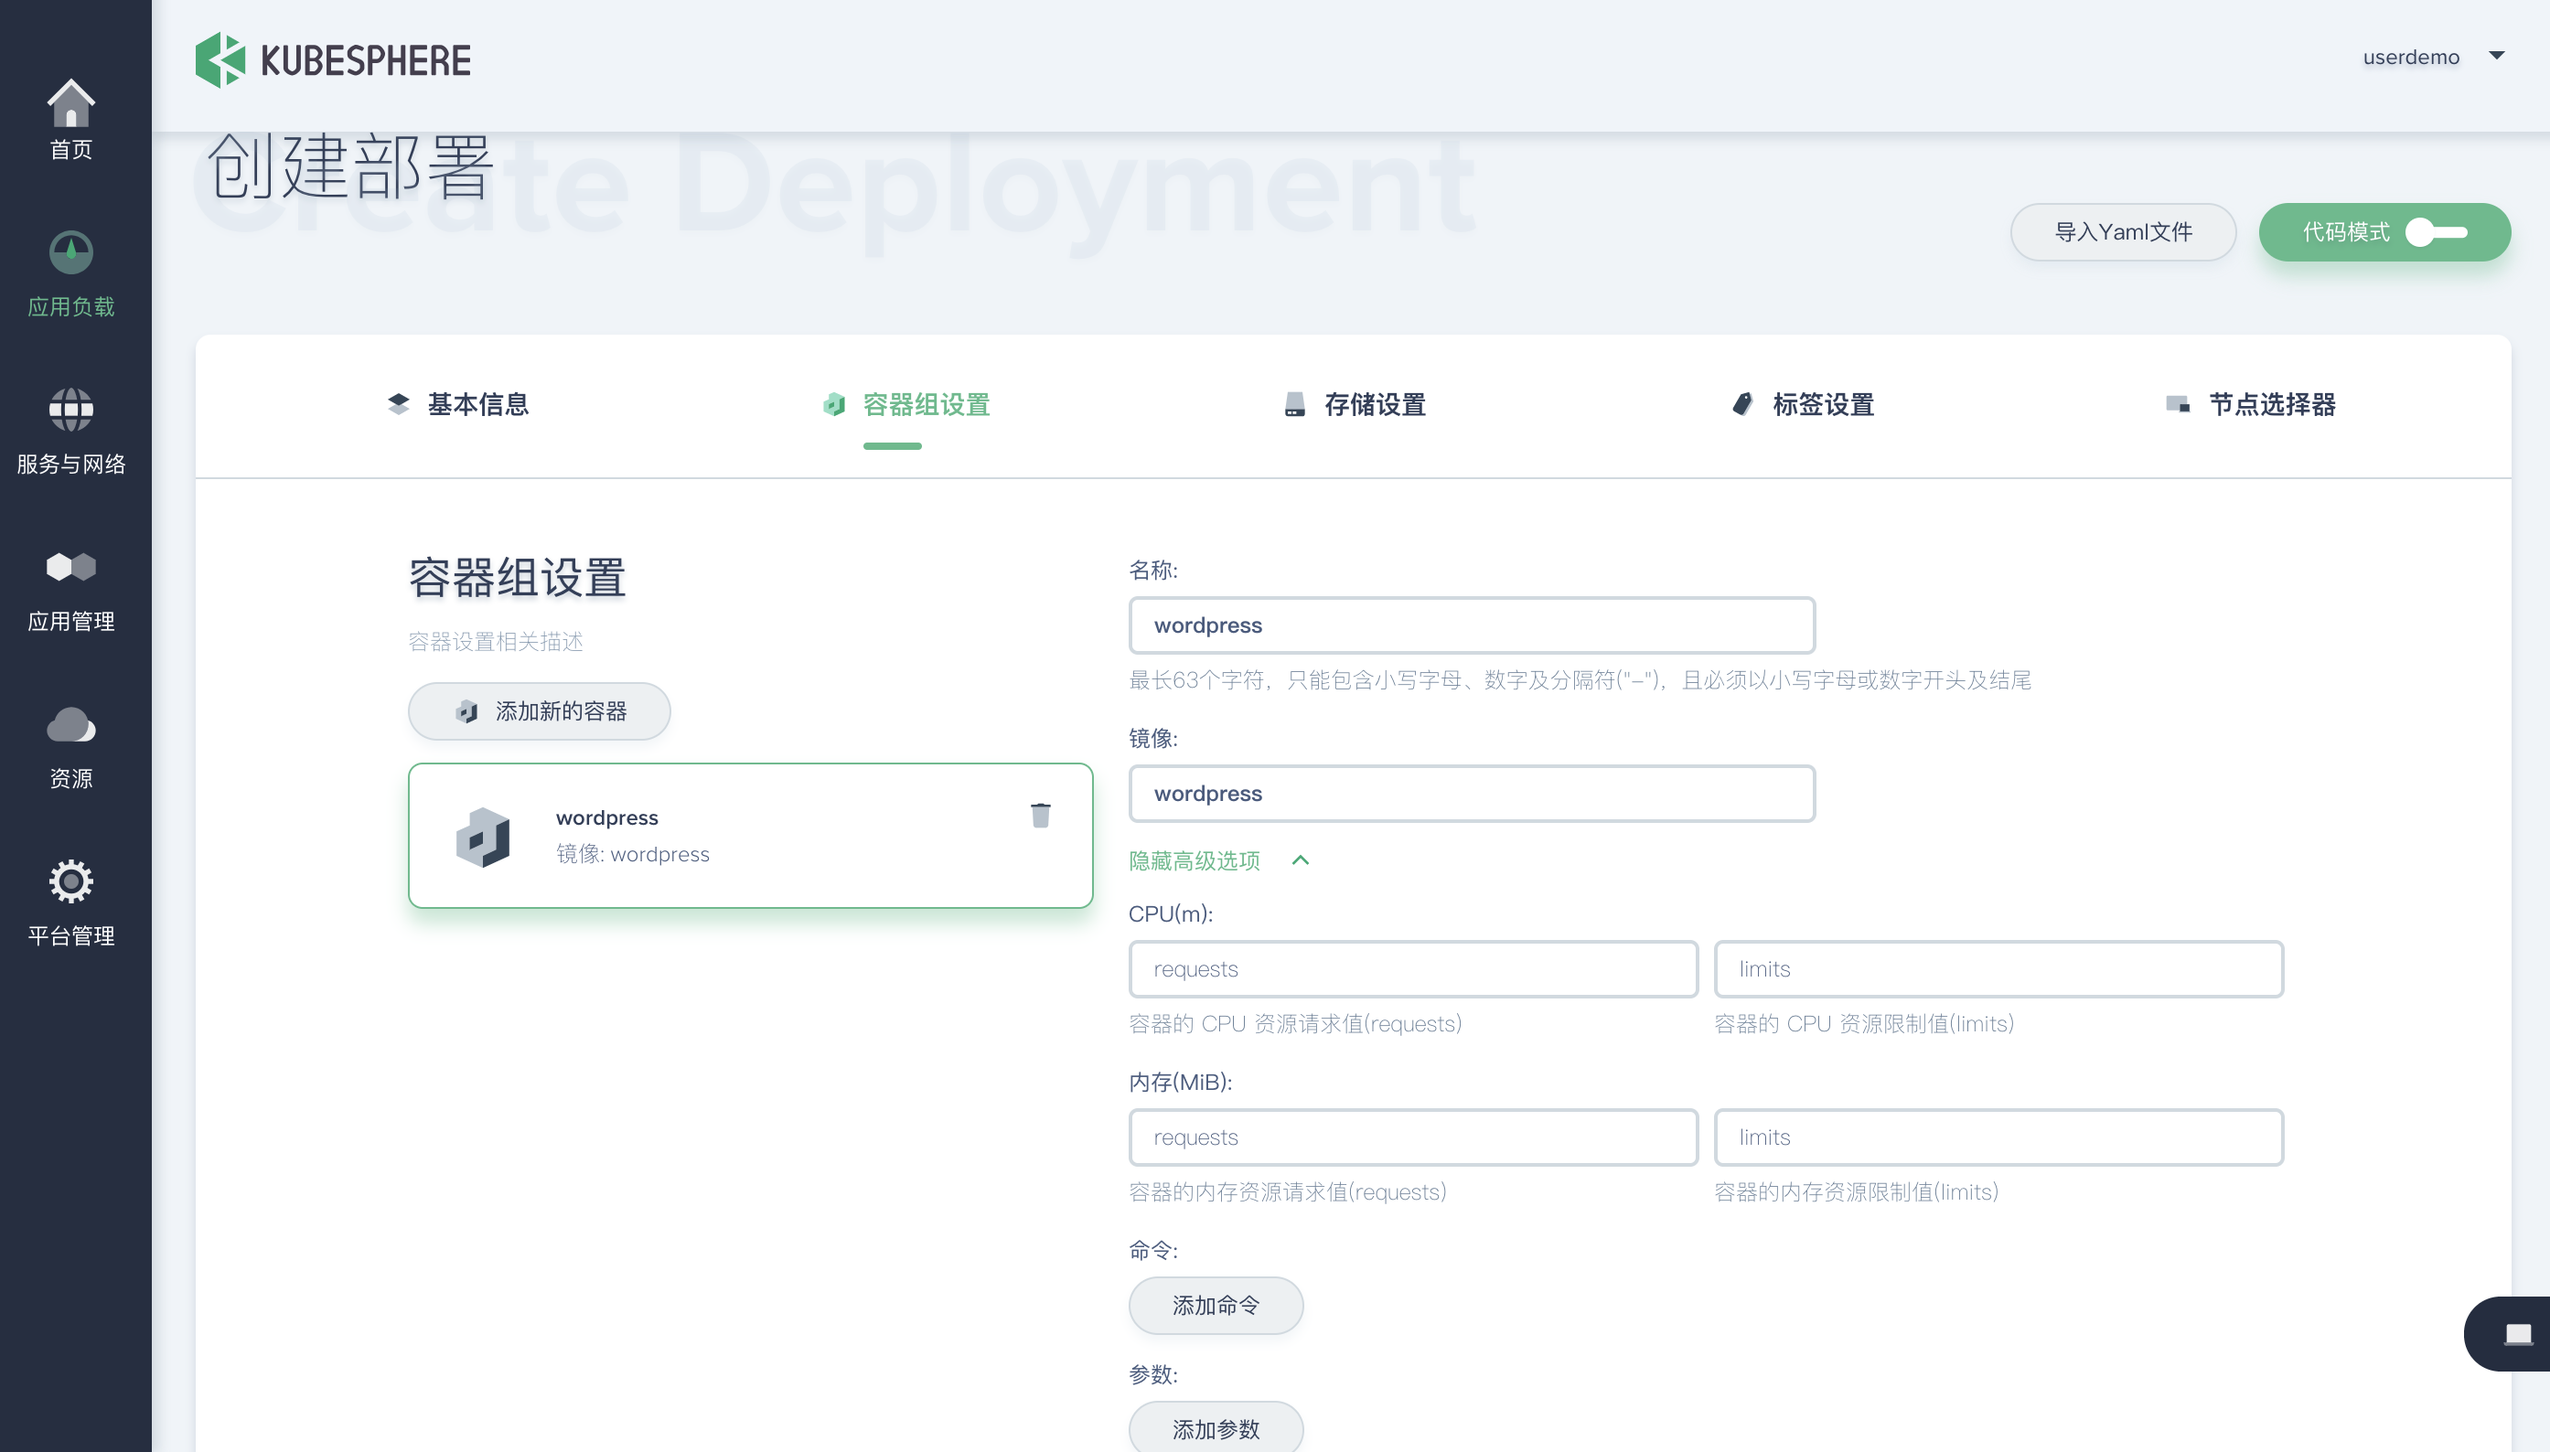
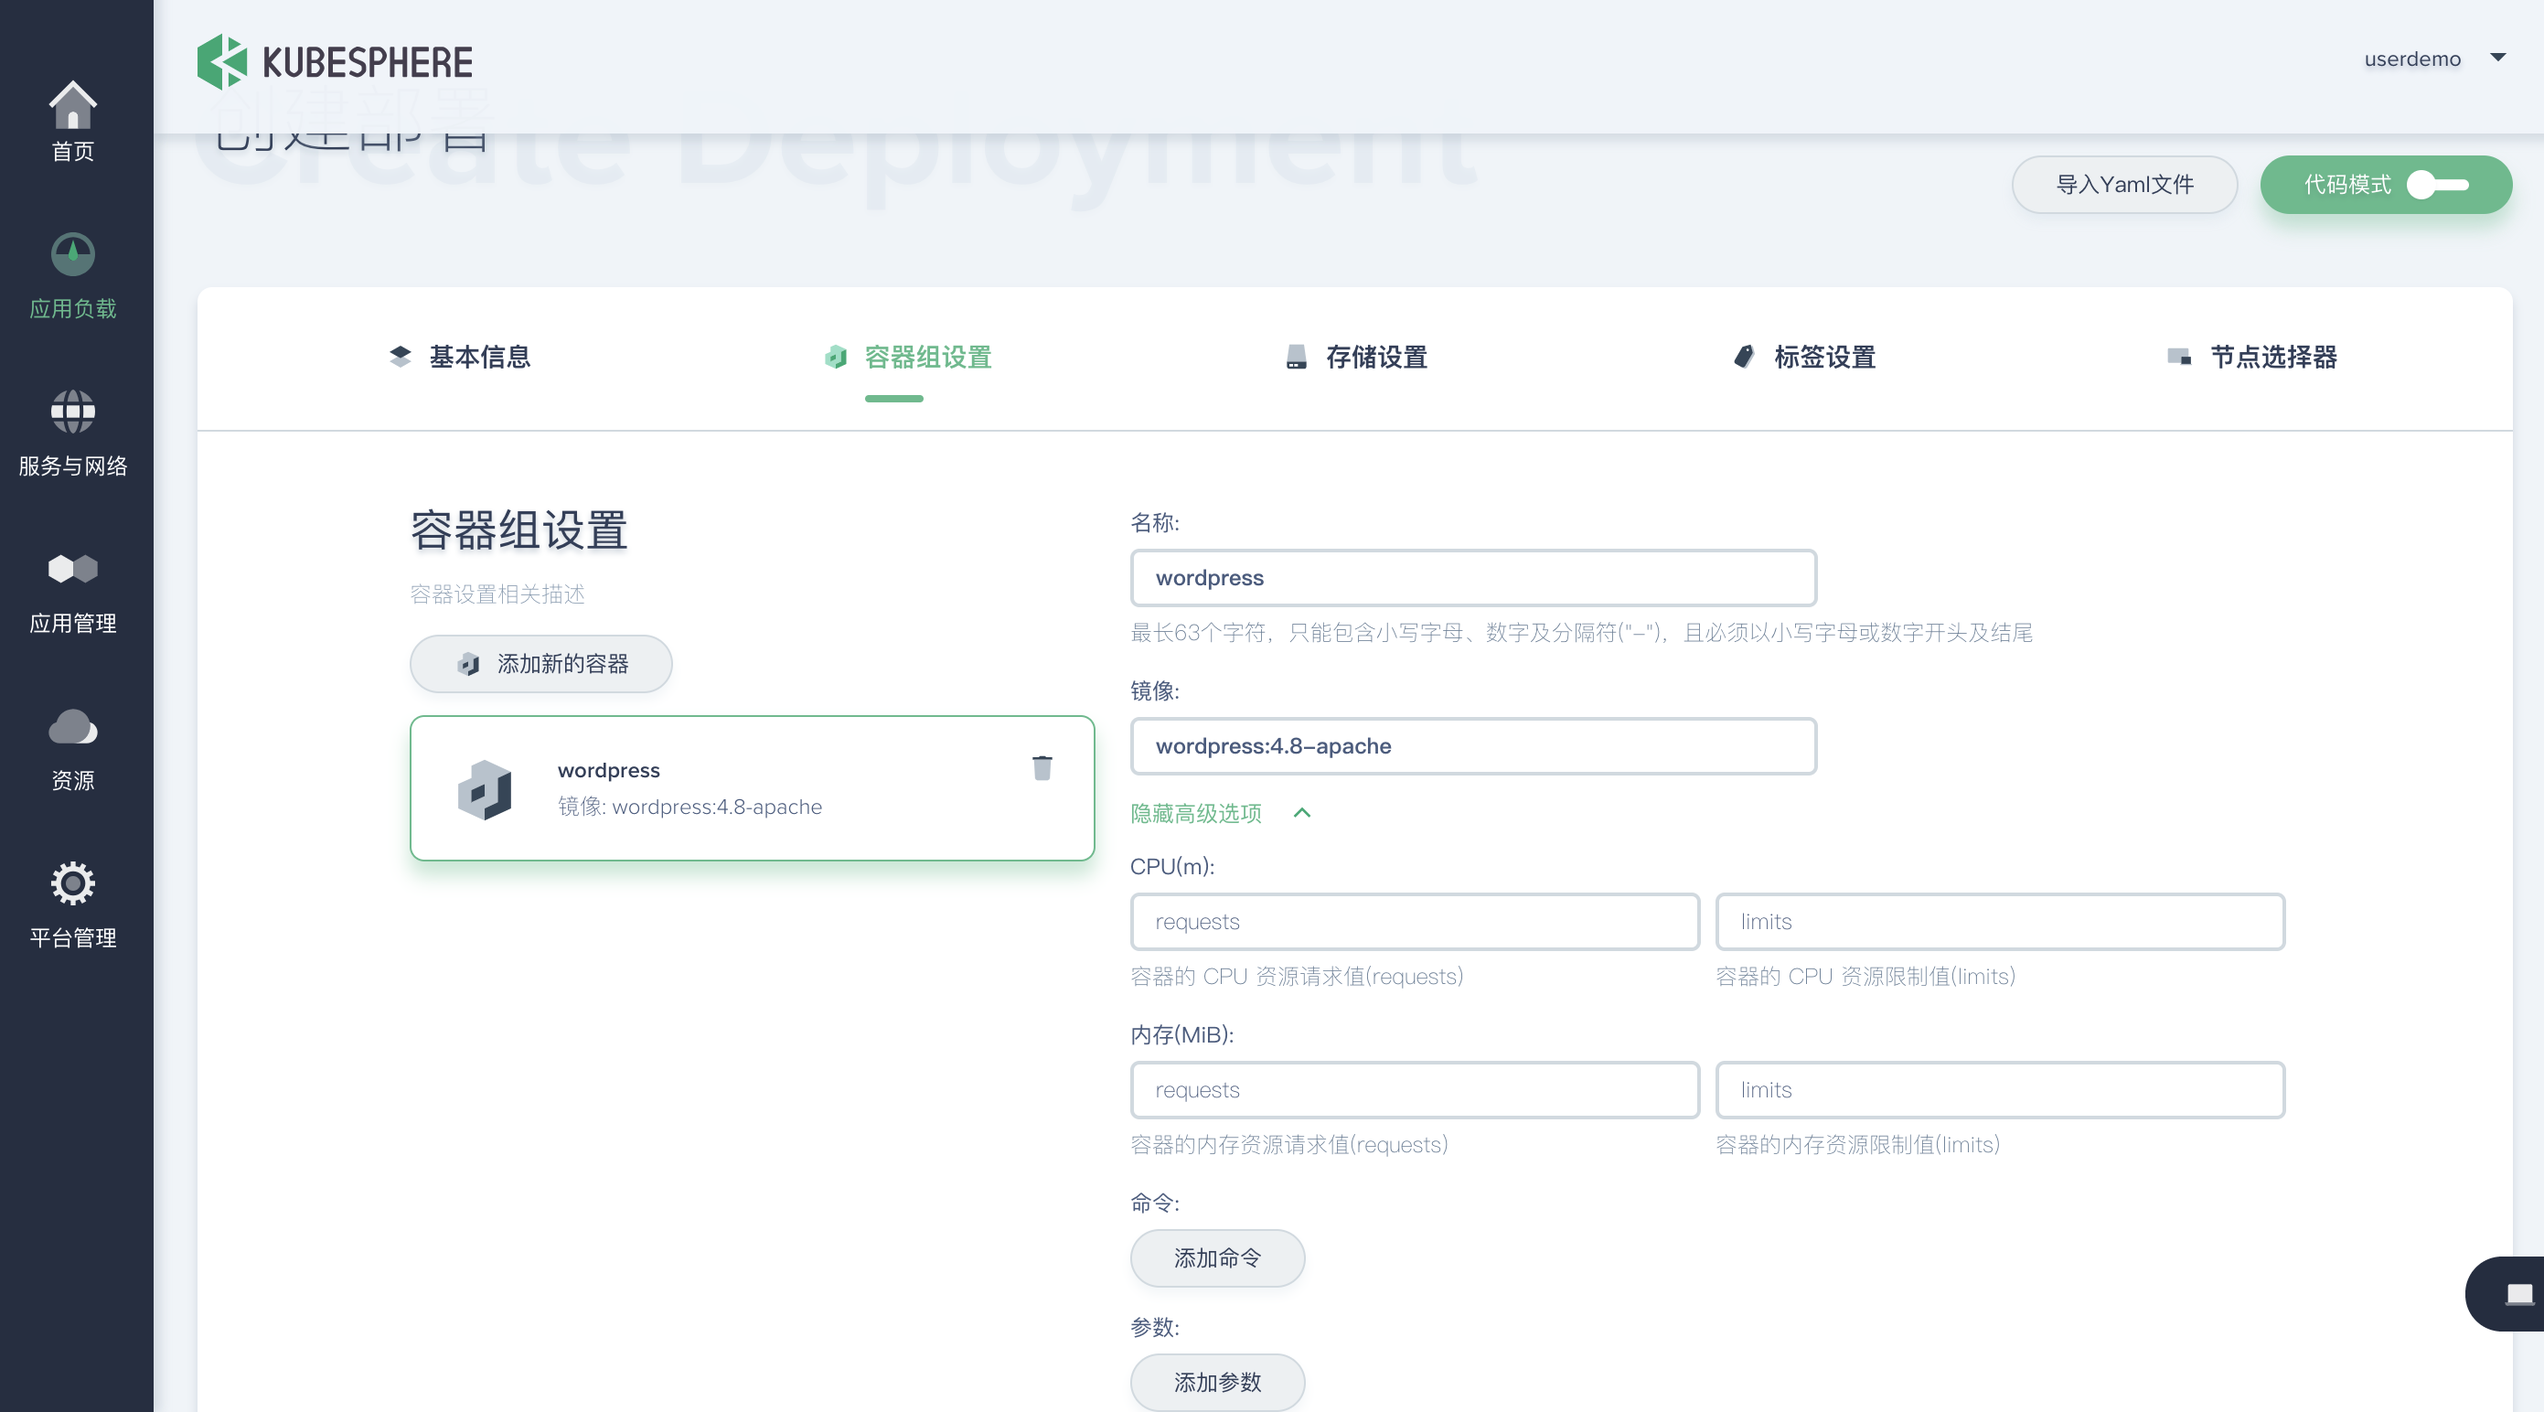
update docs

diff --git a/content/express/zh-CN/user-case.md b/content/express/zh-CN/user-case.md
@@ -8,7 +8,7 @@ WordPress 是使用 PHP 语言开发的博客平台，用户可以在支持 PHP 
 
 ## 登录 KubeSphere
 
-1、在开始实践之前，请以普通用户（Regular）的身份登录 KubeSphere，操作员的身份需要通过管理员创建，关于如何创建普通用户（Regular）身份以及成员管理请参考  [用户管理说明](https://docs.kubesphere.io/express/zh-CN/manage-users)，关于用户角色管理的详细介绍，请参考 [角色管理说明](https://docs.kubesphere.io/express/zh-CN/manage-roles)。
+1、在开始实践之前，请以普通用户（Regular）的身份登录 KubeSphere，操作员的身份需要通过管理员创建，关于如何创建普通用户（Regular）身份以及成员管理请参考  [用户管理说明](/express/zh-CN/manage-users/)，关于用户角色管理的详细介绍，请参考 [角色管理说明](/express/zh-CN/manage-roles/)。
 
 
 ## 创建项目
@@ -20,7 +20,7 @@ WordPress 是使用 PHP 语言开发的博客平台，用户可以在支持 PHP 
 
 ![](/uc_createproj.png)
 
-> 说明: 关于项目管理的详细介绍，请参考  [项目管理说明](https://docs.kubesphere.io/express/zh-CN/manage-projects) 。
+> 说明: 关于项目管理的详细介绍，请参考  [项目管理说明](/express/zh-CN/manage-projects/) 。
 
 ## 创建存储卷
 
@@ -33,7 +33,7 @@ WordPress 是使用 PHP 语言开发的博客平台，用户可以在支持 PHP 
 
 ![](/uc_createpv1.png)
 
-- 第二步，填写存储设置，完成后点下一步（关于创建存储类型的详细介绍, 请参考 [存储类型管理说明](https://docs.kubesphere.io/express/zh-CN/manage-storageclasses) 通过管理员为其创建 ）：
+- 第二步，填写存储设置，完成后点下一步（关于创建存储类型的详细介绍, 请参考 [存储类型管理说明](/express/zh-CN/manage-storageclasses/) 通过管理员为其创建 ）：
 
 ![](/uc_createpv2.png)
 
@@ -53,7 +53,7 @@ WordPress 是使用 PHP 语言开发的博客平台，用户可以在支持 PHP 
 
 ![](/uc_createdeploy.png)
 
-> 说明：关于如何管理部署资源，请参考 [部署管理说明](https://docs.kubesphere.io/express/zh-CN/manage-deployments)
+> 说明：关于如何管理部署资源，请参考 [部署管理说明](/express/zh-CN/manage-deployments/)
 
 
 7、请参考以下步骤创建部署 wordpress-mysql：
@@ -66,9 +66,9 @@ WordPress 是使用 PHP 语言开发的博客平台，用户可以在支持 PHP 
 
 ![](/uc_createdeploy10.png)
 
-> 注: 如果 docker 镜像不是来自默认的 dockerhub，例如 docker 镜像来自 Harbor 镜像仓库, 请参考 [镜像仓库管理说明](https://docs.kubesphere.io/express/zh-CN/manage-imageregistries)
+> 注: 如果 docker 镜像不是来自默认的 dockerhub，例如 docker 镜像来自 Harbor 镜像仓库, 请参考 [镜像仓库管理说明](/express/zh-CN/manage-imageregistries/)
 
-- 在容器组设置中配置 MySQL 的访问端口和 MySQL 的环境变量 (root 用户的密码) , **端口**用于指定容器需要暴露的端口，端口协议可以选择 TCP 和 UDP, 用户还可以指定端口与主机端口进行绑定。**环境变量**可以指定容器内部使用的环境变量。完成后点下一步：
+- 在容器组设置中配置 MySQL 的访问端口和 MySQL 的环境变量 `MYSQL_ROOT_PASSWORD` 和 root 用户的密码 , **端口**用于指定容器需要暴露的端口，端口协议可以选择 TCP 和 UDP, 用户还可以指定端口与主机端口进行绑定。**环境变量**可以指定容器内部使用的环境变量。完成后点下一步：
 
 ![](/uc_createdeploy11.png)
 
@@ -97,11 +97,11 @@ WordPress 是使用 PHP 语言开发的博客平台，用户可以在支持 PHP 
 
 ![](/uc_createdeploy1.png)
 
-- 第二步，填写容器组设置，名称可自定义，镜像填写 `wordpress` :
+- 第二步，填写容器组设置，名称可自定义，镜像填写 `wordpress:4.8-apache` :
 
 ![](/uc_createdeploy2.png)
 
-- 在容器组设置中配置 WordPress 的访问端口和关联 MySQL 的环境变量并保存，完成后点下一步：
+- 在容器组设置中配置 WordPress 的访问端口和关联 MySQL 的环境变量 (`WORDPRESS_DB_HOST` 和 `WORDPRESS_DB_PASSWORD`) 并保存，完成后点下一步：
 
 > 注意:  环境变量中, ``WORDPRESS_DB_HOST`` 的值对应的是 MySQL 服务的名称, 在后续步骤创建 MySQL 服务时, 服务名应该与此处的环境变量值相同, 否则无法连接 MySQL 数据库。
 
@@ -148,7 +148,7 @@ WordPress 是使用 PHP 语言开发的博客平台，用户可以在支持 PHP 
 
 ![](/uc_createsvc4.png)
 
-> 说明： 关于如何管理服务的详细介绍，请参考 [服务管理说明](https://docs.kubesphere.io/express/zh-CN/manage-services)
+> 说明： 关于如何管理服务的详细介绍，请参考 [服务管理说明](/express/zh-CN/manage-services)
 
 11、请参考以下步骤为 WordPress 创建服务：
 
@@ -164,7 +164,7 @@ WordPress 是使用 PHP 语言开发的博客平台，用户可以在支持 PHP 
 
 ![](/uc_createsvc7.png)
 
-- 第四步，设置外网访问时，共有 None、 NodePort、 LoadBalancer 三种访问方式，可根据情景来设置访问方式。本实践以 LoadBalancer 的方式暴露服务，并将公网 IP 地址的 ID 填入 Annotation 中，即可通过公网 IP 访问该服务, 完成后点击创建：
+- 第四步，设置外网访问时，共有 None、 NodePort、 LoadBalancer 三种访问方式，可根据情景来设置访问方式。本实践以 LoadBalancer 的方式暴露服务，并将公网 IP 地址的 `ID` 填入 Annotation 中，即可通过公网 IP 访问该服务, 完成后点击创建：
 
 ![](/uc_createsvc8.png)
 
@@ -180,14 +180,14 @@ WordPress 是使用 PHP 语言开发的博客平台，用户可以在支持 PHP 
 
 12、通过创建应用路由的方式也可以将 WordPress 暴露到公网可供访问，请参考以下步骤配置应用路由：
 
-> 说明： 关于如何管理应用路由，详细请参考 [应用路由管理说明](#https://docs.kubesphere.io/express/zh-CN/manage-routers)
+> 说明： 关于如何管理应用路由，详细请参考 [应用路由管理说明](/express/zh-CN/manage-routers/)
 
 - 第一步，配置外网访问入口，即应用路由的网关入口：
 
 ![](/uc_createingress.png)
 
 
-- 网关入口提供 NodePort 和 LoadBalancer 两种访问方式，可根据情景需要来设置访问方式，本实践以 LoadBalancer 为例配置网关入口，将公网 IP 地址的 ID 填入 Annotation，配置完成后点击应用：
+- 网关入口提供 NodePort 和 LoadBalancer 两种访问方式，可根据情景需要来设置访问方式，本实践以 LoadBalancer 为例配置网关入口，将公网 IP 地址的 `ID` 填入 Annotation，配置完成后点击应用：
 
 ![](/uc_createingress1.png)
 
@@ -210,9 +210,11 @@ WordPress 是使用 PHP 语言开发的博客平台，用户可以在支持 PHP 
 
 - 至此，WordPress 就以应用路由的方式通过网关入口暴露到外网以供访问，用户可以通过示例中配置的 `kubesphere.wp.com` 访问 WordPress 博客网站：
 
+> 注: 创建应用路由之后应该把公网 IP 和 `kubesphere.wp.com` 填入本地的 hosts 配置文件中，即可通过浏览器访问。
+
 ![](/uc_createingress6.png)
 
-> 注: 创建应用路由之后应该把公网 IP 和 `kubesphere.wp.com` 填入本地的 hosts 配置文件中，即可通过浏览器访问。
+
 
 ## 副本数调节
 

diff --git a/content/express/zh-CN/KubeSphere-Installer-Guide.md b/content/express/zh-CN/KubeSphere-Installer-Guide.md
@@ -91,7 +91,7 @@ Please input an option: 1
 ```bash
 PLAY RECAP *********************************************
 KubeSphere     : ok=69 changed=68 unreachable=0 failed=0
-Succesful!
+Successful!
 ########################################################
 KubeSphere is running！
 Matser IP: 121.10.121.111
